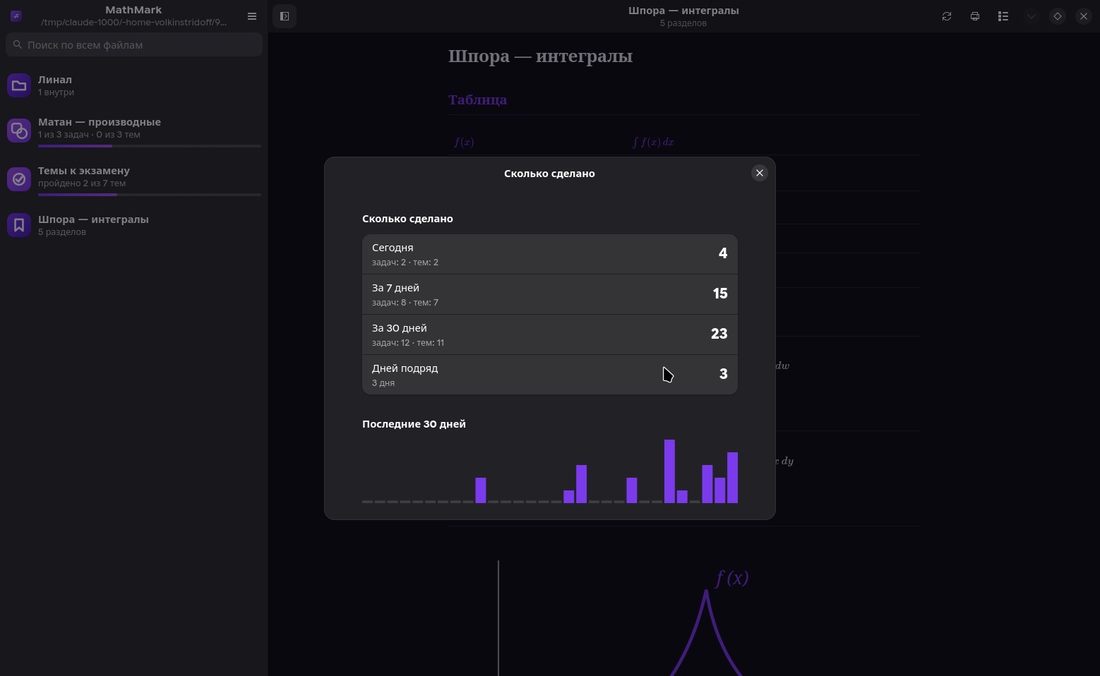
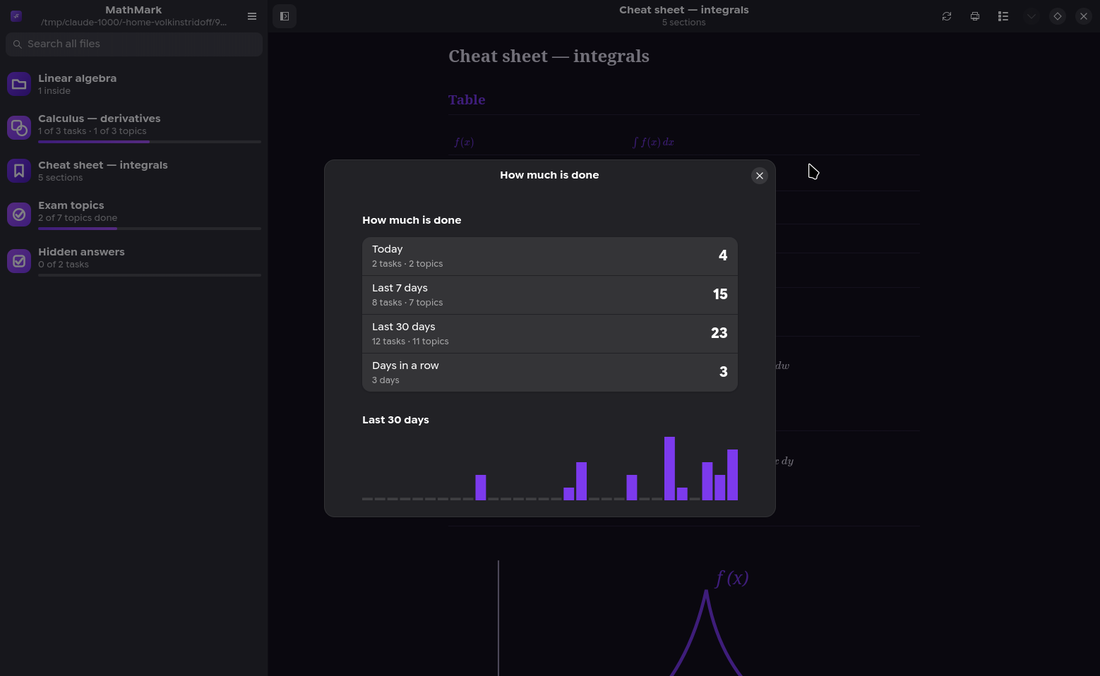
Снимки под язык страницы
Английская витрина показывала русские экраны — каша. Пересняты и сам
интерфейс, и содержимое: для снимков сделана папка английских образцов,
чтобы на экране не было ни слова по-русски.

README.md и README.es.md смотрят на английские снимки, README.ru.md —
на русские, они лежат в shots/ru.

diff --git a/README.ru.md b/README.ru.md
@@ -11,9 +11,9 @@
 
 [English](README.md) · [Español](README.es.md)
 
-<img src="shots/phone-01-list.png" width="230"> <img src="shots/phone-02-doc.png" width="230"> <img src="shots/phone-03-doc-light.png" width="230">
+<img src="shots/ru/phone-01-list.png" width="230"> <img src="shots/ru/phone-02-doc.png" width="230"> <img src="shots/ru/phone-03-doc-light.png" width="230">
 
-<img src="shots/20-desktop-doc.png" width="750">
+<img src="shots/ru/20-desktop-doc.png" width="750">
 
 </div>
 
@@ -70,7 +70,7 @@ $$f'(x) = \lim_{\Delta x \to 0} \frac{f(x + \Delta x) - f(x)}{\Delta x}$$
 ## Что умеет
 
 <div align="center">
-<img src="shots/phone-04b-hidden-open.png" width="195"> <img src="shots/phone-05-search.png" width="195"> <img src="shots/phone-09-stats.png" width="195"> <img src="shots/phone-10-reminder.png" width="195">
+<img src="shots/ru/phone-04b-hidden-open.png" width="195"> <img src="shots/ru/phone-05-search.png" width="195"> <img src="shots/ru/phone-09-stats.png" width="195"> <img src="shots/ru/phone-10-reminder.png" width="195">
 </div>
 
 - **Настоящие формулы.** Дроби, корни любой степени, кратные и контурные интегралы, суммы и произведения с пределами, матрицы и определители, системы, многострочные выкладки, греческие буквы, множества и кванторы, тензорные индексы, цепные дроби, скобки под группой членов. Рисует [KaTeX](https://katex.org) шрифтом Computer Modern — тем самым, которым набраны учебники.
@@ -116,7 +116,7 @@ content query --uri content://dev.yury.mathmark/prompt
 ## Настольная версия
 
 <div align="center">
-<img src="shots/21-desktop-search.png" width="370"> <img src="shots/22-desktop-stats.png" width="370">
+<img src="shots/ru/21-desktop-search.png" width="370"> <img src="shots/ru/22-desktop-stats.png" width="370">
 </div>
 
 Это та же программа, и рисует она **через ту же самую страницу**, что и телефон: `shared/reader/` используется обеими, разъехаться они не могут.

diff --git a/README.es.md b/README.es.md
@@ -70,7 +70,7 @@ Nunca declaras qué es un archivo. La aplicación cuenta las líneas y elige el 
 ## Qué hace
 
 <div align="center">
-<img src="shots/phone-04b-hidden-open.png" width="195"> <img src="shots/phone-05-search.png" width="195"> <img src="shots/phone-09-stats.png" width="195"> <img src="shots/phone-10-reminder.png" width="195">
+<img src="shots/phone-04-hidden.png" width="195"> <img src="shots/phone-05-search.png" width="195"> <img src="shots/phone-09-stats.png" width="195"> <img src="shots/phone-07-sheet.png" width="195">
 </div>
 
 - **Fórmulas de verdad.** Fracciones, raíces de cualquier índice, integrales múltiples y de contorno, sumas y productos con límites, matrices y determinantes, sistemas, desarrollos alineados, letras griegas, símbolos de conjuntos y lógica, índices tensoriales, fracciones continuas, llaves bajo un grupo de términos. Las dibuja [KaTeX](https://katex.org) en Computer Modern — la tipografía de los libros de matemáticas.

diff --git a/README.md b/README.md
@@ -70,7 +70,7 @@ You never declare what a file is. The app counts the lines and picks the icon it
 ## What it does
 
 <div align="center">
-<img src="shots/phone-04b-hidden-open.png" width="195"> <img src="shots/phone-05-search.png" width="195"> <img src="shots/phone-09-stats.png" width="195"> <img src="shots/phone-10-reminder.png" width="195">
+<img src="shots/phone-04-hidden.png" width="195"> <img src="shots/phone-05-search.png" width="195"> <img src="shots/phone-09-stats.png" width="195"> <img src="shots/phone-07-sheet.png" width="195">
 </div>
 
 - **Formulas, properly.** Fractions, roots of any degree, multiple and contour integrals, sums and products with limits, matrices and determinants, systems, aligned derivations, Greek letters, set and logic symbols, tensor indices, continued fractions, braces under a group of terms. Rendered by [KaTeX](https://katex.org) in Computer Modern — the typeface your textbooks are set in.
